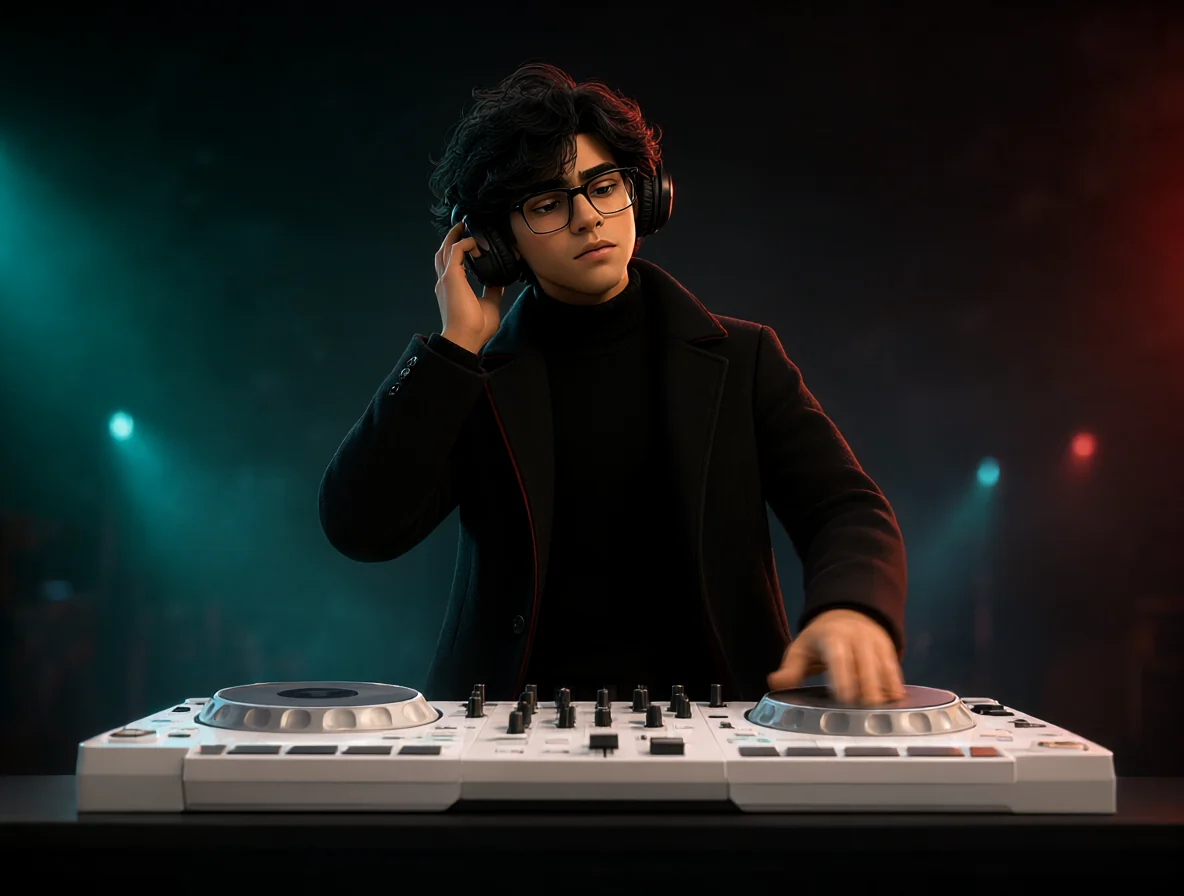
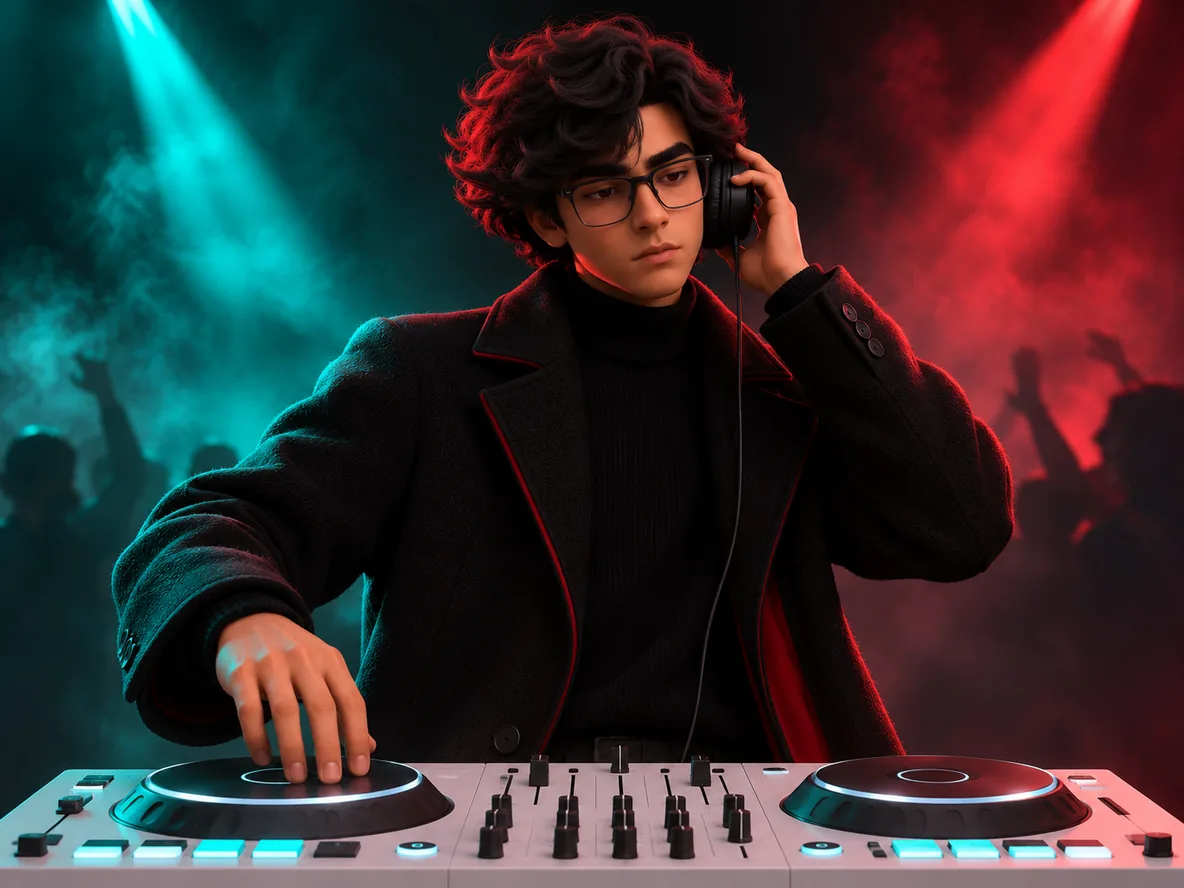
feat: hero plates redrawn as one consistent character (ChatGPT set)
Stand, palm, the three arm-raise frames, blink, eyes, desk and DJ are now one
character: same face, hair, glasses and coat in every scene. Depth maps and the
arm-raise optical flow are regenerated (4 pairs; raise-1b dropped), and every
plate-pixel anchor is re-measured: eye point, palm, close-up irises, the desk
monitor quad, the blink patch, the DJ head/hands/jog/lights.

Layout fixes found in filmstrip QA: the name no longer sits under his head on
desktop, the orbit ring passes behind him instead of across his face, the DJ
line moves off the scratching hand, and the phone desk scene keeps his face in
frame. Old plates are backed up in avatar-studio/hero-v3-backup.

diff --git a/js/hero/fx/dj.js b/js/hero/fx/dj.js
@@ -1,4 +1,4 @@
-/* The music beat: him on the decks (Qwen frame dj.webp, 1184x896), alive on a 124 BPM clock.
+/* The music beat: him on the decks (ChatGPT frame dj.webp, 1184x888), alive on a 124 BPM clock.
    One PixiJS MeshPlane carries the art; vertices move by painted weights:
    - head + headphone hand: a nod on every beat (quick drop, slow rise; the "pop" of a DJ nod),
      pivoting at the neck so the head rotates a little rather than sliding
@@ -12,19 +12,25 @@ import { clamp01 } from '../timeline-utils.js';
 
 const PIXI_URL = 'https://cdn.jsdelivr.net/npm/pixi.js@8.6.6/dist/pixi.min.mjs';
 const W = 1184;
-const H = 896;
+const H = 888;
 const BPM = 124;
-const HEAD = Object.freeze({ x: 570, y: 185, r: 150 });
-const NECK = Object.freeze({ x: 590, y: 305 });
-const EAR_HAND = Object.freeze({ x: 465, y: 285, r: 85 });
-const HAND = Object.freeze({ x: 845, y: 650, r: 95 });
+const HEAD = Object.freeze({ x: 600, y: 150, r: 150 });
+const NECK = Object.freeze({ x: 635, y: 300 });
+const EAR_HAND = Object.freeze({ x: 760, y: 215, r: 85 }); /* his right hand on the headphone cup */
+const HAND = Object.freeze({ x: 295, y: 705, r: 95 }); /* left hand on the left jog wheel */
+const HANDS_SPAN = Object.freeze([200, 820]); /* x of his left hand on the jog wheel .. his right hand at the ear */
+const HANDS_MARGIN = 30;
+const MIN_SLICE = 740; /* plate px of height a landscape frame shows at least */
+const FOCUS_Y = 452; /* plate y that stays at the middle of a landscape frame */
 const SHOULDERS = Object.freeze({ y0: 300, y1: 560 });
 const LIGHTS = Object.freeze([
-  { x: 120, y: 425, color: 0x19e6d2, size: 520, beat: 0 },
-  { x: 1085, y: 445, color: 0xff2a1f, size: 480, beat: 0.5 },
-  { x: 988, y: 470, color: 0x19e6d2, size: 260, beat: 0.25 },
+  { x: 205, y: 245, color: 0x19e6d2, size: 520, beat: 0 }, /* teal haze under the left spotlight */
+  { x: 965, y: 150, color: 0xff2a1f, size: 480, beat: 0.5 }, /* red haze under the right spotlight */
+  { x: 912, y: 846, color: 0x19e6d2, size: 260, beat: 0.25 }, /* the cyan pads on the right deck */
 ]);
-const JOG = Object.freeze({ x: 860, y: 708, rx: 112, ry: 26 });
+const JOG = Object.freeze({ x: 283, y: 782, rx: 139, ry: 22 }); /* lit rim of the left platter */
+/* The painted spotlights' sources, at the top corners of the plate: the sweeping beams start here. */
+const BEAM_SOURCES = Object.freeze([{ x: 123, y: 0 }, { x: 1120, y: 0 }]);
 const NOD_PX = 0; /* no bouncing (Anand) */
 const NOD_DEG = 0;
 const SCRATCH_PX = 5;
@@ -128,9 +134,9 @@ export function createDJ(host, imageUrl) {
     const beams = [0, 1].map((i) => {
       const b = new Sprite(beamTexture(Texture));
       b.anchor.set(0.5, 0);
-      b.position.set(i ? 1085 : 120, i ? 445 : 425);
+      b.position.set(BEAM_SOURCES[i].x, BEAM_SOURCES[i].y);
       b.width = 150;
-      b.height = 900;
+      b.height = 700;
       b.tint = i ? 0xff3b30 : 0x19e6d2;
       b.blendMode = 'add';
       lights.addChild(b);
@@ -150,10 +156,10 @@ export function createDJ(host, imageUrl) {
     for (let i = 0; i < n; i += 1) {
       const x = rest[i * 2];
       const y = rest[i * 2 + 1];
-      const deck = smooth(690, 670, y); /* the controller and table never move */
+      const deck = smooth(745, 725, y); /* the controller and table never move */
       wHead[i] = Math.max(gauss(x - HEAD.x, y - HEAD.y, HEAD.r * 0.62), gauss(x - EAR_HAND.x, y - EAR_HAND.y, EAR_HAND.r * 0.6)) * deck;
-      wHand[i] = gauss(x - HAND.x, y - HAND.y, HAND.r * 0.55) * smooth(720, 690, y);
-      wBody[i] = smooth(SHOULDERS.y1, SHOULDERS.y0, y) * smooth(150, 300, y) * (x > 300 && x < 920 ? 1 : 0) * deck;
+      wHand[i] = gauss(x - HAND.x, y - HAND.y, HAND.r * 0.55) * smooth(768, 738, y);
+      wBody[i] = smooth(SHOULDERS.y1, SHOULDERS.y0, y) * smooth(150, 300, y) * (x > 250 && x < 1000 ? 1 : 0) * deck;
       depth[i] = depthAt(x, y) - FOCUS;
     }
 
@@ -161,22 +167,32 @@ export function createDJ(host, imageUrl) {
       const sw = instance.screen.width;
       const sh = instance.screen.height;
       if (sw / sh >= 1) {
-        const s = Math.max(sw / W, sh / H) * 1.04; /* landscape: cover, plus camera overscan */
+        /* Cover, but never zoom past MIN_SLICE plate-px of height: on 16:9 that leaves a strip of black at
+           each side, which the plate's edges melt into (mask below) so the controller stays in frame. */
+        const s = Math.min(Math.max(sw / W, sh / H), sh / MIN_SLICE);
         world.scale.set(s);
-        /* The deck (JOG, HAND) sits in the bottom 30% of the plate and is the point of the shot, so
-           anchor low enough to keep it in frame; a wide screen still trims a little hair crown.
-           0.63, not 0.54: handoff.js holds this stage at `scale: 1.05` (the push-in) once the beat
-           line is up, which zooms in around the plate's own centre and eats back into whatever
-           margin a scale-1 anchor bought. 0.63 is tuned so the deck's bottom trim and his hand
-           still clear the frame once that 1.05 zoom is the steady state, not just at scale 1. */
-        world.position.set((sw - W * s) / 2, (sh - H * s) * 0.63);
+        /* A 16:10 or 16:9 screen shows only 75-85% of this 4:3 plate's height, so choose the slice: it is
+           centred on FOCUS_Y (his face through to his fingertips on the platter, y 100-780), so a wide
+           screen trims the hair crown and the controller's lower edge rather than his face or hands.
+           handoff.js then holds this stage at `scale: 1.05` about the frame centre, which only trims a
+           little more from each end of that slice. Clamped so the plate always covers the frame. */
+        const top = Math.min(Math.max(0, FOCUS_Y - sh / s / 2), Math.max(0, H - sh / s));
+        const left = (sw - W * s) / 2;
+        world.position.set(left, -top * s);
+        const edge = left > 1 ? `linear-gradient(to right, transparent ${left}px, #000 ${left + 90}px, #000 ${left + W * s - 90}px, transparent ${left + W * s}px)` : '';
+        canvas.style.maskImage = canvas.style.webkitMaskImage = edge;
       } else {
-        /* Portrait: a cover crop would be all coat. Frame head to decks in the top 3/4 and centre
-           on his head; the black table carries on into the plate's black below. */
-        const s = (sh * 0.74) / H;
+        /* Portrait: frame both hands, the left one on the jog wheel and the right one on the
+           headphones (HANDS_SPAN), with his head and the decks inside the top 3/4 of the frame. The
+           scale is the smaller of "decks fill 74% of the height" and "both hands fit the width". */
+        const s = Math.min((sh * 0.74) / H, sw / (HANDS_SPAN[1] - HANDS_SPAN[0] + 2 * HANDS_MARGIN));
         world.scale.set(s);
-        const x = Math.min(0, Math.max(sw - W * s, sw / 2 - HEAD.x * s));
+        const mid = (HANDS_SPAN[0] + HANDS_SPAN[1]) / 2;
+        const x = Math.min(0, Math.max(sw - W * s, sw / 2 - mid * s));
         world.position.set(x, 0);
+        /* The controller is cut off at the plate's bottom edge: melt it into the black below. */
+        const fade = `linear-gradient(#000 ${Math.max(0, H * s - 70)}px, transparent ${H * s}px)`;
+        canvas.style.maskImage = canvas.style.webkitMaskImage = fade;
       }
     };
     instance.renderer.on('resize', fit);
@@ -219,7 +235,7 @@ export function createDJ(host, imageUrl) {
         s.alpha = 0.18 + 0.42 * Math.exp(-p * 6);
       });
       beams.forEach((b, i) => {
-        b.rotation = (i ? -1 : 1) * (0.35 + Math.sin(t * 0.6 + i * 2) * 0.22);
+        b.rotation = (i ? 1 : -1) * (0.5 + Math.sin(t * 0.6 + i * 2) * 0.1); /* lies along the painted beams */
         b.alpha = 0.06 + 0.07 * Math.exp(-(((beats + i * 0.5) % 1) * 5));
       });
       rim.clear();

diff --git a/css/hero.css b/css/hero.css
@@ -96,6 +96,15 @@ html[data-theme="paper"] .hx-pin { --hx-ink: 0; }
   color: var(--ink); will-change: transform;
 }
 .hx-name span { display: inline; }
+/* Desktop: the stand plate's head sits dead centre in front of the name, so the word gap is widened and
+   centred on him (Anand ends at the gap's left edge, Thakkar starts at its right) and his head fills the
+   gap instead of covering the T. Phones and portrait tablets stack the two words instead (below). */
+@media (min-width: 768px) and (orientation: landscape) {
+  .hx-name { display: grid; grid-template-columns: 1fr 0.85em 1fr; font-size: min(14vw, 33svh); }
+  .hx-name span:first-child { grid-column: 1; justify-self: end; }
+  .hx-name span:last-child { grid-column: 3; justify-self: start; }
+  .hx-intro .hx-figure { --fig-h: min(86svh, 150vw); } /* his crown clears the kicker line above the name */
+}
 .hx-intro-foot {
   position: absolute; z-index: 5; left: var(--gutter); right: var(--gutter); bottom: var(--space-5);
   display: flex; align-items: flex-end; justify-content: space-between; gap: var(--space-5);
@@ -111,7 +120,7 @@ html[data-theme="paper"] .hx-pin { --hx-ink: 0; }
 .hx-cue svg { width: 0.75rem; height: 0.75rem; animation: cue 2.2s var(--ease-out) infinite; }
 
 /* Palm */
-.hx-orbit { position: absolute; z-index: 4; left: var(--palm-x); top: var(--palm-y); width: 0; height: 0; }
+.hx-orbit { position: absolute; z-index: -1; left: var(--palm-x); top: var(--palm-y); width: 0; height: 0; }
 .hx-figure .hx-icon {
   max-width: none; max-height: none;
   position: absolute; left: 0; top: 0; width: max(calc(var(--u) * 8), 44px); height: max(calc(var(--u) * 8), 44px);
@@ -146,8 +155,9 @@ html[data-theme="paper"] .hx-pin { --hx-ink: 0; }
 }
 .hx-desk-plate img {
   display: block; width: min(150vw, 170svh); height: auto; aspect-ratio: 4 / 3;
-  -webkit-mask-image: radial-gradient(ellipse 50% 50% at 50% 50%, #000 55%, transparent 100%);
-  mask-image: radial-gradient(ellipse 50% 50% at 50% 50%, #000 55%, transparent 100%);
+  /* wide ellipse: the monitor sits at the right edge of desk.webp and must not fade out under its editor overlay */
+  -webkit-mask-image: radial-gradient(ellipse 85% 85% at 50% 50%, #000 80%, transparent 100%);
+  mask-image: radial-gradient(ellipse 85% 85% at 50% 50%, #000 80%, transparent 100%);
 }
 .hx-crow-src { visibility: hidden; z-index: -1; }
 .hx-crows { z-index: 3; }
@@ -214,12 +224,12 @@ html[data-theme="paper"] .hx-beat-line {
    close-up fades into the sky at its bottom edge and the desk fills the height, cropping the sides. */
 @media (orientation: portrait) {
   .hx-portrait img {
-    -webkit-mask-image: linear-gradient(#000 66%, transparent 97%);
-    mask-image: linear-gradient(#000 66%, transparent 97%);
+    -webkit-mask-image: linear-gradient(transparent 1%, #000 13%, #000 66%, transparent 97%); /* the top fade hides the flat cut across his hair */
+    mask-image: linear-gradient(transparent 1%, #000 13%, #000 66%, transparent 97%);
   }
   /* Fill the frame and crop toward the gear: he sits at ~40% of the shot, the monitor and
      monitor at 57-85%. object-position, because GSAP owns the img's transform. */
-  .hx-desk-plate img { max-width: none; width: 100vw; height: 100svh; aspect-ratio: auto; object-fit: cover; object-position: 62% 45%; }
+  .hx-desk-plate img { max-width: none; width: 100vw; height: 100svh; aspect-ratio: auto; object-fit: cover; object-position: 22% 45%; } /* tablets: his face first, the gear second */
 }
 /* Small phones: the top bar holds the seal, skip link, blog, help and theme, so the skip
    link shows only its arrow (its text stays as the accessible name). */
@@ -229,7 +239,7 @@ html[data-theme="paper"] .hx-beat-line {
 }
 /* Phones show about a third of the desk shot: keep him and the controller, let the monitor crop. */
 @media (orientation: portrait) and (max-width: 600px) {
-  .hx-desk-plate img { object-position: 70% 45%; } /* keep his hand, keyboard and the live monitor */
+  .hx-desk-plate img { object-position: 24% 45%; } /* keep his face, shoulder and the hand on the keyboard (the monitor crops away) */
 }
 
 /* Portrait tablets: stack the name like phones so his head sits below it, not across it. */
@@ -265,7 +275,7 @@ html[data-theme="paper"] .hx-desk .hx-beat-kicker { color: #ff3b30; }
 
 /* Music beat: the club plate (fx/dj.js draws the live version over the img). */
 .hx-dj { position: absolute; inset: 0; z-index: 1; overflow: hidden; background: #050505; will-change: transform, opacity, filter; }
-.hx-dj img, .hx-dj canvas { position: absolute; inset: 0; width: 100%; height: 100%; object-fit: cover; object-position: 50% 63%; }
+.hx-dj img, .hx-dj canvas { position: absolute; inset: 0; width: 100%; height: 100%; object-fit: cover; object-position: 50% 51%; } /* static fallback; the live canvas centres plate y 452 (fx/dj.js FOCUS_Y) */
 .hx-dj-alive img { opacity: 0; }
 @media (orientation: portrait) { .hx-dj img { object-fit: cover; height: 74%; object-position: 48% 70%; } }
 .hx-live .hx-dj { opacity: 0; }
@@ -273,6 +283,8 @@ html[data-theme="paper"] .hx-desk .hx-beat-kicker { color: #ff3b30; }
   background: linear-gradient(90deg, rgba(5, 5, 5, 0.78) 0%, rgba(5, 5, 5, 0.35) 38%, transparent 62%),
               linear-gradient(0deg, rgba(5, 5, 5, 0.6) 0%, transparent 35%); }
 .hx-handoff .hx-beat-line { color: #f4f4f2; }
+/* Landscape: the line sits in the teal haze top-left; at the bottom it would cover his hand on the left jog wheel. */
+@media (min-width: 768px) and (orientation: landscape) { .hx-handoff .hx-beat { bottom: auto; top: 17svh; } }
 html[data-theme="paper"] .hx-handoff .hx-beat-line { color: #f4f4f2; text-shadow: 0 2px 18px rgba(0, 0, 0, 0.65), 0 0 2px rgba(0, 0, 0, 0.5); }
 html[data-theme="paper"] .hx-handoff .hx-beat-kicker { color: #ff3b30; }
 html[data-theme="paper"] .hx-handoff .cue { color: #d8d6d0; }
@@ -282,7 +294,7 @@ html[data-theme="paper"] .hx-handoff .cue { color: #d8d6d0; }
 .hx-code {
   position: absolute; left: 0; top: 0; transform-origin: 0 0; z-index: 2; overflow: hidden; pointer-events: none;
   display: grid; grid-template-rows: auto 1fr auto; background: #0d1014; color: #c9d1d9;
-  font: 500 15px/1.5 "JetBrains Mono", ui-monospace, Menlo, monospace; border-radius: 2px;
+  font: 500 13px/1.5 "JetBrains Mono", ui-monospace, Menlo, monospace; border-radius: 2px;
   box-shadow: 0 0 40px rgba(25, 230, 210, 0.12), inset 0 0 60px rgba(0, 0, 0, 0.5);
   filter: brightness(0.92) saturate(0.9);
 }

diff --git a/js/hero/config.js b/js/hero/config.js
@@ -1,27 +1,33 @@
 /* Hero tuning. Everything a person may want to adjust after the real images land lives here. */
 
 /* Flip a key to true once its file exists in assets/hero/ (a 404 would log a console error). */
-export const REAL_IMAGES = Object.freeze({ stand: true, palm: true, eyes: true, desk: true, 'raise-1': true, 'raise-1b': true, 'raise-2': true, 'raise-3': true, dj: true });
+export const REAL_IMAGES = Object.freeze({ stand: true, palm: true, eyes: true, desk: true, 'raise-1': true, 'raise-2': true, 'raise-3': true, dj: true });
 
 export const IMAGE_PATH = 'assets/hero/';
 /* assets/ is served immutable (vercel.json): bump this whenever a hero image file changes. */
-export const IMAGE_VERSION = 3;
+export const IMAGE_VERSION = 4;
 export const heroImage = (name) => `${IMAGE_PATH}${name}.webp?v=${IMAGE_VERSION}`;
 
 /* EYE POSITION on stand.webp, as a percentage of the image box (0,0 = top left). Tune these two. */
-export const EYE_X_PCT = 48.2;
-export const EYE_Y_PCT = 13.7;
+export const EYE_X_PCT = 48.9;
+export const EYE_Y_PCT = 11.8;
 
 /* Other positions that need the real art: the raised palm on palm.webp, the two eyes on eyes.webp. */
-export const PALM_X_PCT = 46.5;
-export const PALM_Y_PCT = 32.7;
+export const PALM_X_PCT = 30.9;
+export const PALM_Y_PCT = 31.3;
 /* Measured directly off assets/hero/eyes.webp (1024x768): cropped and grid-overlaid at 3x, read
-   the iris centre to the nearest pixel for each eye. His-right eye (screen-left) pixel (451, 264);
-   his-left eye (screen-right) pixel (577, 253). docs/IRIS-ALIGNMENT.md has the full method. */
-export const CLOSEUP_EYES = Object.freeze([{ x: 44.0, y: 34.4 }, { x: 56.4, y: 32.9 }]);
+   the iris centre to the nearest pixel for each eye. His-right eye (screen-left) pixel (442, 325);
+   his-left eye (screen-right) pixel (672, 317). docs/IRIS-ALIGNMENT.md has the full method. */
+export const CLOSEUP_EYES = Object.freeze([{ x: 43.2, y: 42.3 }, { x: 65.6, y: 41.3 }]);
 
 /* Image aspect ratios (width / height). */
-export const ASPECT = Object.freeze({ stand: 3 / 4, palm: 3 / 4, eyes: 4 / 3, desk: 4 / 3, 'raise-1': 3 / 4, 'raise-1b': 3 / 4, 'raise-2': 3 / 4, 'raise-3': 3 / 4, dj: 1184 / 896 });
+export const ASPECT = Object.freeze({ stand: 3 / 4, palm: 3 / 4, eyes: 4 / 3, desk: 4 / 3, 'raise-1': 3 / 4, 'raise-2': 3 / 4, 'raise-3': 3 / 4, dj: 4 / 3 });
+
+/* Intrinsic pixel size of each real file in assets/hero/ (the <img width/height> attributes). */
+export const IMAGE_SIZE = Object.freeze({
+  stand: [768, 1024], palm: [768, 1024], 'raise-1': [768, 1024], 'raise-2': [768, 1024], 'raise-3': [768, 1024],
+  eyes: [1024, 768], desk: [1184, 888], dj: [1184, 888],
+});
 
 /* Scenes in order. `overlap` is how many seconds the scene starts before the previous one ends. */
 export const SCENES = Object.freeze([
@@ -58,7 +64,7 @@ export const SEED_CROWS = 0x1d3a;
 export const RAISE_FLOW = Object.freeze({
   width: 768,
   height: 1024,
-  pairs: [71, 84, 49, 52, 47].map((range, i) => ({
+  pairs: [110, 60, 63, 43].map((range, i) => ({
     f01: `${IMAGE_PATH}flow/flow-${i}-f.png?v=${IMAGE_VERSION}`,
     f10: `${IMAGE_PATH}flow/flow-${i}-b.png?v=${IMAGE_VERSION}`,
     range,

diff --git a/js/hero/scenes/palm.js b/js/hero/scenes/palm.js
@@ -11,12 +11,16 @@ import { DEFAULT_OPTS, beat, easeInOut, easeIn, easeOut, fade, holdUntil, qs, qs
 export const DURATION = 13;
 const ORBIT_TILT = 0.22;
 const ORBIT_ROLL = -0.2;
-const ORBIT_RADIUS = 32; /* in --u units (1u = about 1svh); scales with the camera push (see unit() below) */
-const ORBIT_LIFT = 30;
+const ORBIT_RADIUS = 20; /* in --u units (1u = about 1svh); scales with the camera push (see unit() below) */
+const ORBIT_LIFT = 20;
+/* The raised hand sits a hand-width off his body, so the ring (centred above the palm) reaches behind his
+   head and shoulder: it is drawn BEHIND the figure (css/hero.css .hx-orbit) like a ring around him, and
+   never covers his face or coat. */
+const ORBIT_SHIFT_X = 0;
 const ORBIT_TURNS = 2.5;
 /* The push frames face and palm together: it scales about the point halfway between his eyes and
    the palm and nudges the frame down, so his hair stays in shot at every aspect ratio. */
-const PALM_SHIFT_Y_PCT = 12;
+const PALM_SHIFT_Y_PCT = 21;
 const FRAME_Y_PCT = (EYE_Y_PCT + PALM_Y_PCT) / 2;
 const PORTAL_CENTER = Object.freeze({ x: 0.5, y: 0.55 });
 const TAU = Math.PI * 2;
@@ -48,12 +52,13 @@ function createOrbit(el) {
     const rise = easeOut(state.rise);
     const radius = ORBIT_RADIUS * rise;
     const cy = -ORBIT_LIFT * rise;
+    const cx = ORBIT_SHIFT_X * rise;
     icons.forEach((icon, i) => {
       const theta = (i * TAU) / icons.length + state.spin;
       const depth = (Math.sin(theta) + 1) / 2;
       const pos = rotate(radius * Math.cos(theta), radius * ORBIT_TILT * Math.sin(theta));
       const s = (0.7 + 0.3 * depth) * Math.min(1, rise * 1.6) / state.scale;
-      icon.style.transform = `translate(${unit(pos.x)}, ${unit(pos.y + cy)}) translate(-50%, -50%) scale(${s.toFixed(3)})`;
+      icon.style.transform = `translate(${unit(pos.x + cx)}, ${unit(pos.y + cy)}) translate(-50%, -50%) scale(${s.toFixed(3)})`;
       icon.style.opacity = Math.min(1, rise * 2.5 * (0.6 + 0.4 * depth)).toFixed(3);
       icon.style.zIndex = String(3 + Math.round(depth * 4));
     });
@@ -61,7 +66,7 @@ function createOrbit(el) {
       const grow = 1.18 + i * 0.24;
       halo.style.width = unit(2 * radius * grow);
       halo.style.height = unit(2 * radius * ORBIT_TILT * grow);
-      halo.style.transform = `translate(0, ${unit(cy)}) translate(-50%, -50%) rotate(${ORBIT_ROLL}rad)`;
+      halo.style.transform = `translate(${unit(cx)}, ${unit(cy)}) translate(-50%, -50%) rotate(${ORBIT_ROLL}rad)`;
       halo.style.opacity = (Math.min(1, rise * 2) * (i === 0 ? 0.95 : 0.4)).toFixed(3);
     });
   }

diff --git a/js/hero/fx/living.js b/js/hero/fx/living.js
@@ -13,13 +13,14 @@ const W = 768;
 const H = 1024;
 const GRID_X = 48;
 const GRID_Y = 64;
-const FACE = Object.freeze({ x: 370, y: 150, rx: 54, ry: 60 });
+/* Head of the ChatGPT stand plate: the eyes sit at about (375, 121); FACE is the skin ellipse around them. */
+const FACE = Object.freeze({ x: 376, y: 131, rx: 54, ry: 60 });
 const HEM = 716;
 const BREATH_S = 4.2;
 const BREATH_PX = 1.6;
 const BLINK_MS = 110;
 const BLINK_GAP_MS = [2600, 5800];
-const EYE_PATCH = Object.freeze({ x: 322, y: 114 });
+const EYE_PATCH = Object.freeze({ x: 325, y: 94 }); /* top-left of stand-blink-eyes.webp (100x54), from chatgpt-9-blink.png */
 const ALIVE_CLASS = 'hx-alive';
 /* 2.5D camera: every vertex shifts by its depth (Depth Anything V2 map, near = white) against the
    focal plane, so a sideways camera move turns the figure slightly instead of sliding a flat card.
@@ -63,10 +64,10 @@ const smooth = (e0, e1, v) => {
 /* Region weights from texture-space pixel coordinates. */
 function weights(x, y) {
   const fd = ((x - FACE.x) / FACE.rx) ** 2 + ((y - FACE.y) / FACE.ry) ** 2;
-  const inHairBox = x > 270 && x < 455 && y < 205;
-  const hairTop = smooth(118, 55, y);
-  const hairSide = smooth(0.85, 1.6, fd) * smooth(210, 150, y);
-  const insideFace = fd < 1 && y > 110;
+  const inHairBox = x > 275 && x < 460 && y < 186;
+  const hairTop = smooth(99, 36, y);
+  const hairSide = smooth(0.85, 1.6, fd) * smooth(191, 131, y);
+  const insideFace = fd < 1 && y > 91;
   const hair = inHairBox && !insideFace ? Math.max(hairTop, hairSide) : 0;
   const upper = smooth(620, 230, y);
   const coat = x > 240 && x < 530 ? smooth(430, HEM, y) ** 1.6 * smooth(HEM + 14, HEM, y) : 0;

diff --git a/js/hero/fx/code-screen.js b/js/hero/fx/code-screen.js
@@ -4,10 +4,12 @@
    test), see what holds (green). render(p) is a pure function of p (0..1), so scrubbing backwards
    un-types it. DOM text, not canvas, so it stays sharp at any zoom. */
 
-/* Screen corners in desk.webp pixels (1184x896): TL, TR, BR, BL, just inside the bezel. */
-export const IMG = Object.freeze({ w: 1184, h: 896 });
-export const QUAD = Object.freeze([[690, 233], [1000, 235], [998, 438], [680, 431]]);
-export const BOX = Object.freeze({ w: 620, h: 410 }); /* the editor's own layout size, in CSS px */
+/* Screen corners in desk.webp pixels (1184x888): TL, TR, BR, BL, just inside the bezel. The real
+   monitor runs off the right edge of the picture, so the right-hand corners sit on the image edge
+   (x = 1184) instead of past it: the editor ends exactly where the screen leaves the frame. */
+export const IMG = Object.freeze({ w: 1184, h: 888 });
+export const QUAD = Object.freeze([[889, 163], [1184, 76], [1184, 477], [866, 444]]);
+export const BOX = Object.freeze({ w: 460, h: 420 }); /* the editor's own layout size, in CSS px */
 
 export const CODE = [
   ['k', 'class'], [' '], ['t', 'Listener'], ['p', '(nn.Module):'], ['\n'],

diff --git a/js/hero/placeholders.js b/js/hero/placeholders.js
@@ -1,6 +1,6 @@
 /* Stand-in artwork, same sizes and aspect ratios as the real cutouts, until the files land in
    assets/hero/. Silhouettes only: dark bodies with a red rim light. */
-import { ASPECT, REAL_IMAGES, heroImage } from './config.js';
+import { ASPECT, IMAGE_SIZE, REAL_IMAGES, heroImage } from './config.js';
 
 const RIM = '#ff2a1f';
 const BODY = 'url(#b)';
@@ -73,7 +73,8 @@ export function hydrateImages(root) {
     const name = img.dataset.hxImg;
     img.src = imageUrl(name);
     img.closest('.hx-figure')?.style.setProperty('--ar', String(ASPECT[name]));
-    img.width = Math.round(1200 * Math.min(1, ASPECT[name]));
-    img.height = Math.round(img.width / ASPECT[name]);
+    const real = REAL_IMAGES[name] && IMAGE_SIZE[name];
+    img.width = real ? real[0] : Math.round(1200 * Math.min(1, ASPECT[name]));
+    img.height = real ? real[1] : Math.round(img.width / ASPECT[name]);
   });
 }
